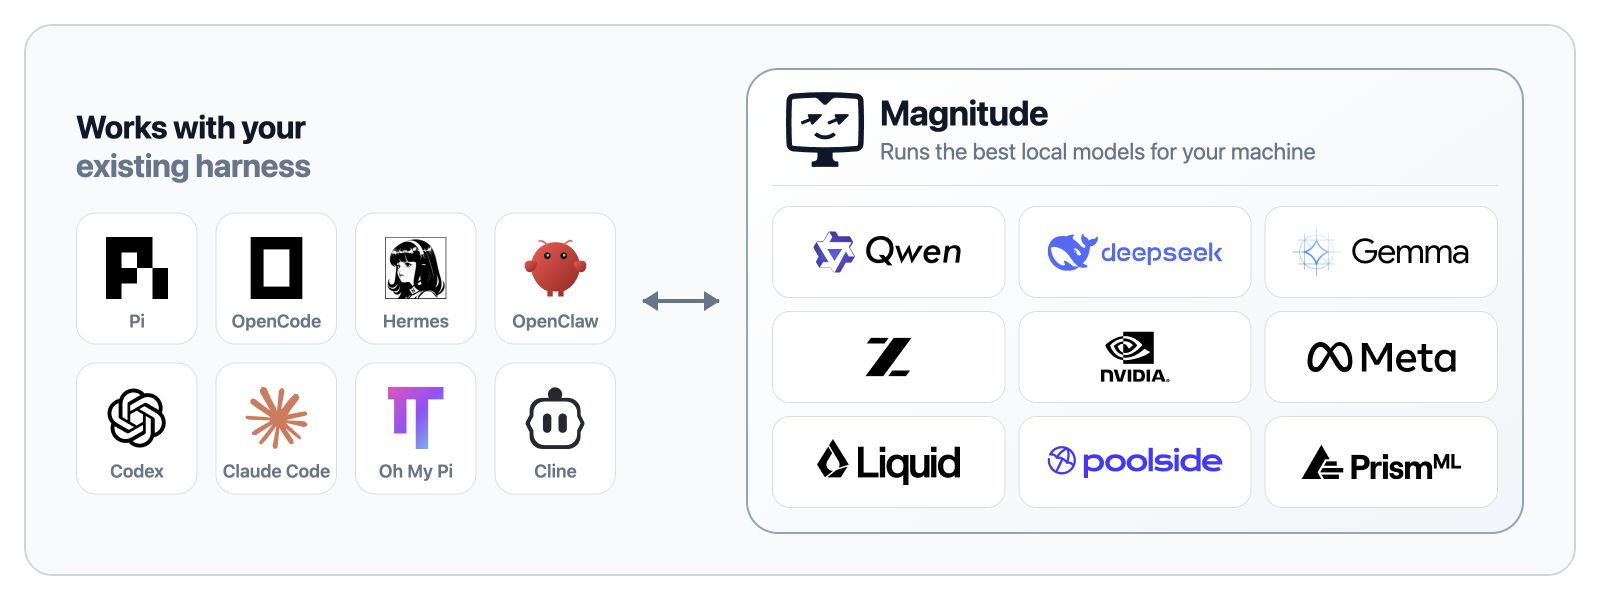
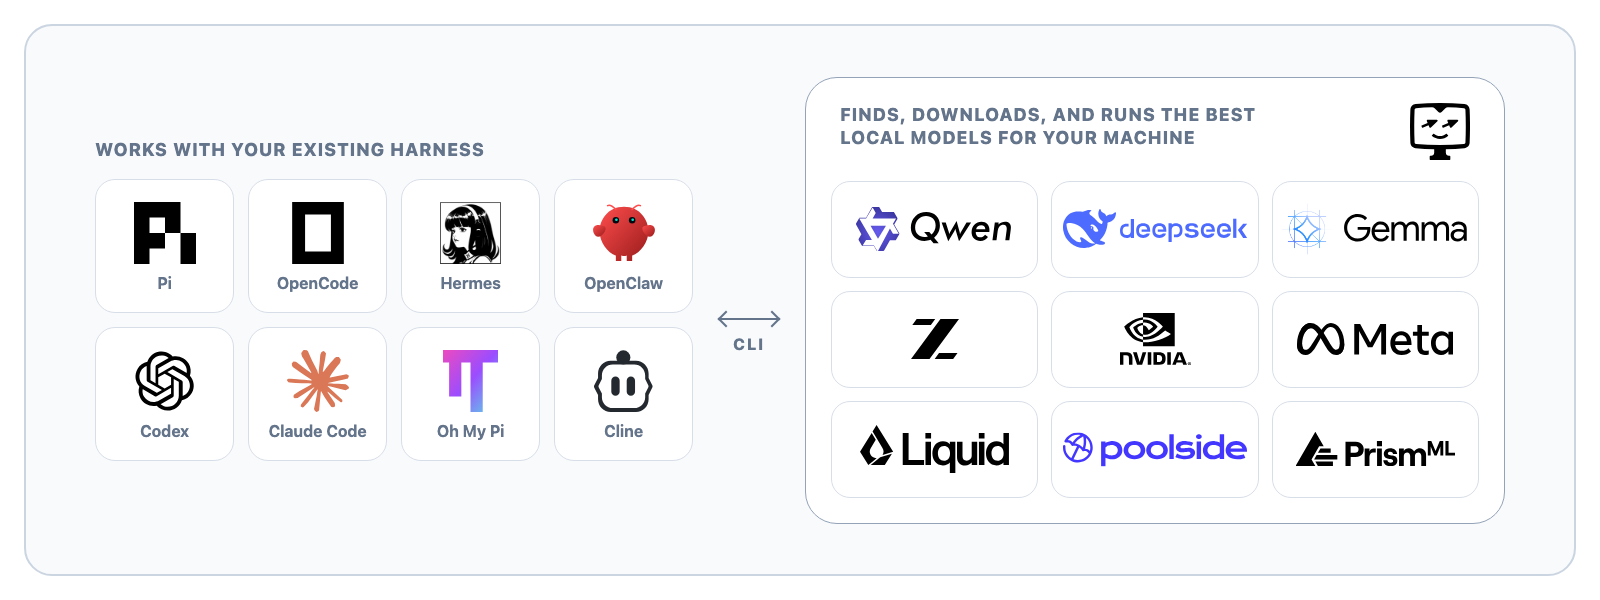
Update README with new graphic

diff --git a/assets/readme/ecosystem.html b/assets/readme/ecosystem.html
@@ -54,49 +54,72 @@
       --arrow: #64748b;
     }
 
+    body.landing {
+      --tile: #121e2e;
+      --tile-border: #233247;
+      --runtime-start: #142238;
+      --runtime-end: #101b2a;
+      --runtime-border: #334863;
+      --runtime-rule: #293950;
+      --model-tile: #101b2a;
+      --model-border: #26364a;
+    }
+
     .stage {
       position: absolute;
       inset: 24px;
       display: grid;
-      grid-template-columns: 540px 130px 1fr;
+      grid-template-columns: 598px 68px 700px;
+      gap: 22px;
       align-items: center;
+      justify-content: center;
       overflow: hidden;
-      padding: 42px 50px;
+      padding: 36px;
       border: 2px solid var(--card-border);
       border-radius: 28px;
       background: var(--card);
     }
 
+    body.landing .stage {
+      border: 0;
+      background: transparent;
+    }
+
+    body.landing .runtime {
+      border-width: 1px;
+    }
+
     .clients {
       display: flex;
       flex-direction: column;
-      gap: 28px;
+      gap: 19px;
     }
 
     .clients h1 {
       margin: 0;
-      font-size: 32px;
+      color: var(--muted);
+      font-size: 18px;
+      font-weight: 780;
       line-height: 1.2;
-      letter-spacing: -.02em;
+      letter-spacing: .06em;
+      text-transform: uppercase;
     }
-
-    .clients h1 span { color: var(--muted); }
 
     .harness-grid {
       display: grid;
-      grid-template-columns: repeat(4, 1fr);
-      gap: 18px;
+      grid-template-columns: repeat(4, 139px);
+      grid-template-rows: repeat(2, 134px);
+      gap: 14px;
     }
 
     .harness-item {
       display: flex;
-      height: 132px;
+      height: 134px;
       min-width: 0;
       flex-direction: column;
       align-items: center;
       justify-content: center;
-      gap: 13px;
-      padding-top: 10px;
+      gap: 11px;
       border: 1px solid var(--tile-border);
       border-radius: 20px;
       background: var(--tile);
@@ -110,104 +133,117 @@
 
     .h-name {
       color: var(--muted);
-      font-size: 18px;
-      font-weight: 600;
+      font-size: 16px;
+      font-weight: 680;
       line-height: 1;
       white-space: nowrap;
     }
 
     .intake {
+      position: relative;
       display: flex;
       align-items: center;
       justify-content: center;
+      height: 2px;
+      transform: translateY(19px);
     }
 
     .arrow {
       position: relative;
-      width: 76px;
-      height: 4px;
+      width: 58px;
+      height: 2px;
       background: var(--arrow);
     }
 
     .arrow::before,
     .arrow::after {
       position: absolute;
-      top: 50%;
+      top: -5px;
+      width: 10px;
+      height: 10px;
       content: "";
-      transform: translateY(-50%);
-      border-block: 10px solid transparent;
+      border-top: 2px solid var(--arrow);
     }
 
     .arrow::before {
-      left: -1px;
-      border-right: 16px solid var(--arrow);
+      left: 0;
+      border-left: 2px solid var(--arrow);
+      transform: rotate(-45deg);
     }
 
     .arrow::after {
-      right: -1px;
-      border-left: 16px solid var(--arrow);
+      right: 0;
+      border-right: 2px solid var(--arrow);
+      transform: rotate(45deg);
+    }
+
+    .intake span {
+      position: absolute;
+      top: 17px;
+      left: 50%;
+      transform: translateX(-50%);
+      color: var(--muted);
+      font-size: 16px;
+      font-weight: 800;
+      letter-spacing: .12em;
     }
 
     .runtime {
-      height: 100%;
-      padding: 24px;
-      border: 2px solid var(--runtime-border);
+      width: 700px;
+      padding: 25px;
+      border: 1px solid var(--runtime-border);
       border-radius: 32px;
-      background: linear-gradient(145deg, var(--runtime-start), var(--runtime-end));
+      background: var(--runtime-start);
     }
 
     .runtime-header {
       display: flex;
-      height: 92px;
-      align-items: center;
-      gap: 16px;
-      padding: 0 14px 20px;
-      border-bottom: 1px solid var(--runtime-rule);
+      align-items: flex-start;
+      justify-content: space-between;
+      padding: 0 9px;
     }
 
     .runtime-header img {
-      width: 78px;
-      height: 78px;
-    }
-
-    .runtime-header strong {
-      display: block;
-      font-size: 35px;
-      line-height: 1.05;
-      letter-spacing: -.02em;
+      order: 2;
+      width: 60px;
+      height: 58px;
+      object-fit: contain;
     }
 
     .runtime-header span {
       display: block;
-      margin-top: 7px;
       color: var(--muted);
-      font-size: 23px;
-      line-height: 1.2;
+      font-size: 18px;
+      font-weight: 780;
+      line-height: 1.3;
+      letter-spacing: .06em;
+      text-transform: uppercase;
+      white-space: nowrap;
     }
 
     .model-grid {
       display: grid;
       grid-template-columns: repeat(3, 1fr);
-      grid-template-rows: repeat(3, 92px);
+      grid-template-rows: repeat(3, 97px);
       gap: 13px;
       padding-top: 20px;
     }
 
     .model-item {
       display: flex;
-      height: 92px;
+      height: 97px;
       min-width: 0;
       align-items: center;
       justify-content: center;
       padding: 12px;
       border: 1px solid var(--model-border);
-      border-radius: 18px;
+      border-radius: 19px;
       background: var(--model-tile);
     }
 
     .model-logo {
-      max-width: 148px;
-      max-height: 46px;
+      max-width: 156px;
+      max-height: 48px;
       object-fit: contain;
     }
 
@@ -216,13 +252,13 @@
 
     .qwen-lockup .model-icon,
     .gemma-lockup .model-icon {
-      width: 42px;
-      height: 42px;
+      width: 44px;
+      height: 44px;
       object-fit: contain;
     }
 
-    .qwen-lockup .model-logo { width: 100px; }
-    .gemma-lockup .model-logo { width: 105px; }
+    .qwen-lockup .model-logo { width: 106px; }
+    .gemma-lockup .model-logo { width: 111px; }
 
     .deepseek-lockup .model-logo,
     .poolside-lockup .model-logo { transform: scale(1.18); }
@@ -244,18 +280,23 @@
     body.light .light-darken { filter: brightness(0) saturate(100%); }
   </style>
   <script>
-    const requestedTheme = new URLSearchParams(location.search).get('theme')
+    const params = new URLSearchParams(location.search)
+    const requestedTheme = params.get('theme')
+    const surface = params.get('surface')
     const theme = requestedTheme === 'light' || requestedTheme === 'dark'
       ? requestedTheme
       : matchMedia('(prefers-color-scheme: light)').matches ? 'light' : 'dark'
     document.documentElement.style.colorScheme = theme
-    addEventListener('DOMContentLoaded', () => document.body.classList.add(theme))
+    addEventListener('DOMContentLoaded', () => {
+      document.body.classList.add(theme)
+      if (surface === 'landing') document.body.classList.add('landing')
+    })
   </script>
 </head>
 <body>
   <main class="stage">
     <section class="clients">
-      <h1>Works with your<br><span>existing harness</span></h1>
+      <h1>Works with your existing harness</h1>
       <div class="harness-grid">
         <div class="harness-item"><img class="h-icon light-darken" src="../../../magnitude-dev-landing/src/assets/logos/harnesses/pi.svg" alt=""><span class="h-name">Pi</span></div>
         <div class="harness-item"><img class="h-icon light-darken" src="../../../magnitude-dev-landing/src/assets/logos/harnesses/opencode.svg" alt=""><span class="h-name">OpenCode</span></div>
@@ -268,13 +309,16 @@
       </div>
     </section>
 
-    <div class="intake" aria-hidden="true"><div class="arrow"></div></div>
+    <div class="intake" aria-hidden="true"><div class="arrow"></div><span>CLI</span></div>
 
     <section class="runtime">
       <header class="runtime-header">
         <img class="only-dark" src="../brand/icon-dark.svg" alt="">
         <img class="only-light" src="../brand/icon-light.svg" alt="">
-        <div><strong>Magnitude</strong><span>Runs the best local models for your machine</span></div>
+        <div>
+          <span>Finds, downloads, and runs the best</span>
+          <span>local models for your machine</span>
+        </div>
       </header>
       <div class="model-grid">
         <div class="model-item qwen-lockup"><img class="model-icon" src="../../../magnitude-dev-landing/src/assets/logos/qwen.svg" alt=""><img class="model-logo dark-invert" src="../../../magnitude-dev-landing/src/assets/logos/expanded-wordmarks/qwen-wordmark.svg" alt="Qwen"></div>

diff --git a/README.md b/README.md
@@ -18,7 +18,7 @@
   <a href="https://www.npmjs.com/package/@magnitudedev/cli"><img src="https://img.shields.io/npm/v/%40magnitudedev%2Fcli" alt="npm version"></a>
 </p>
 
-Open source inference server that profiles your hardware, recommends the best models for it, then downloads, tunes, and runs them. Use the built-in harness or connect Pi, Hermes, or whatever you already use.
+An open source inference server that your agent sets up for you. Magnitude profiles your hardware, helps you choose the best local models for it, then downloads, tunes, and runs them on demand.
 
 ⭐ Help us reach more developers and grow the Magnitude community. Star this repo!
 
@@ -30,21 +30,35 @@ Open source inference server that profiles your hardware, recommends the best mo
 
 ## Get started
 
-```
-npm i -g @magnitudedev/cli && magnitude setup
+### Send this to your agent
+
+```text
+Set up local models for me with the Magnitude CLI. Install it with `npm i -g @magnitudedev/cli` (or my package manager), then run `magnitude docs onboarding` and follow the instructions.
 ```
 
-Magnitude profiles your machine and shows you the best models for it. Choose one and Magnitude downloads it. Then continue with the built-in harness or launch Pi, OpenCode, Hermes, or another supported harness with the model already loaded.
+Your agent will inspect your hardware, compare compatible models with you, download and load your choice, and connect Magnitude to the agent you already use.
 
 Magnitude supports macOS and Linux. Windows is supported through WSL.
 
+<details>
+<summary>Want to browse the models directly?</summary>
+
+```sh
+npm i -g @magnitudedev/cli
+magnitude setup
+```
+
+The interactive setup lets you browse the recommended models and choose one yourself.
+
+</details>
+
 ## Why Magnitude?
 
+- **Agent-first setup:** one prompt and your agent walks you through the rest
 - **Knows your hardware:** profiles your chip, memory, and bandwidth
 - **Recommends what fits:** the best models for your machine, with estimated tok/s
-- **Models on demand:** loaded on request, unloaded when idle or memory fills
 - **Tuned end to end:** speculative decoding, concurrency, all set for your machine
-- **Set up in one command:** pick a recommended model, then launch your harness
+- **Models on demand:** loaded on request, unloaded when idle or memory fills
 - **Fully private and offline:** models, prompts, and files stay on your machine
 - **Free to run:** no token costs, API keys, or rate limits
 - **Open source:** Apache 2.0, yours to modify
@@ -53,27 +67,23 @@ Magnitude supports macOS and Linux. Windows is supported through WSL.
 
 ### What is Magnitude?
 
-An open source inference server that profiles your hardware, recommends the best models for it, and runs them, tuned to your machine. Use the built-in harness or connect Pi, Hermes, or whatever you already use.
+An open source inference server your agent sets up and operates through the Magnitude CLI. It profiles your hardware, recommends the best models for it, and runs them tuned to your machine.
 
 ### What hardware do I need?
 
 There's no fixed minimum. Magnitude profiles your hardware and recommends the best models for your machine. More memory lets you run larger models.
 
-### How is it different from Ollama or LM Studio?
+### Why not just have my agent set up Ollama?
 
-Ollama and LM Studio run the model you tell them to. Figuring out which model, which quant, whether it fits, and how fast it'll be is on you. Magnitude removes the guesswork. It profiles your machine, shows you exactly what will run well and how fast, then runs it with everything tuned, from speculative decoding to concurrency. It's also built for agent workloads. Models load just in time as requests come in, and unload when idle or memory gets tight.
+Your agent can install Ollama and pull a model, but it's guessing. It doesn't know your hardware, which quant fits, or how fast it'll run. Magnitude gives it a curated catalog with recommendations computed for your machine. Setup is agent-first, through a headless CLI that connects the model to your harness. Inference is built for agents. Models load just in time, unload when idle or memory gets tight, and concurrency is handled for you.
 
 ### Which harnesses work with it?
 
-Pi, OpenCode, Hermes, OpenClaw, Codex, Claude Code, Oh My Pi, and Cline. After downloading a model, continue with the built-in harness or launch another supported harness with that model already loaded in Magnitude.
+Pi, OpenCode, Hermes, OpenClaw, Codex, Claude Code, Oh My Pi, and Cline. During setup, your agent connects your harness to the model you pick. Or use Magnitude's built-in harness.
 
 ### Do I need to manage Magnitude after setup?
 
-No. Magnitude runs in the background and manages the selected model automatically. Revisit it when you want to try a new or different model or need to diagnose a problem. Your agent can use the Magnitude CLI for you.
-
-### Does the model stay in memory all the time?
-
-No. Magnitude loads the model when an agent requests it, keeps it available while active, and unloads it after inactivity or when memory is needed. The model remains downloaded and selected.
+No. It runs in the background, loads models when your agent needs them, and unloads them when idle or memory gets tight. Your agent can install or switch models through the Magnitude CLI anytime.
 
 ### Does my data go to the cloud?
 
@@ -81,7 +91,7 @@ No. Prompts, files, and models stay on your machine.
 
 ### Can it run completely offline?
 
-Yes. Once Magnitude and a model are downloaded, you can use it without an internet connection.
+Yes. Once Magnitude and a model are downloaded, no internet connection needed.
 
 ### Can I use models outside the catalog?
 
